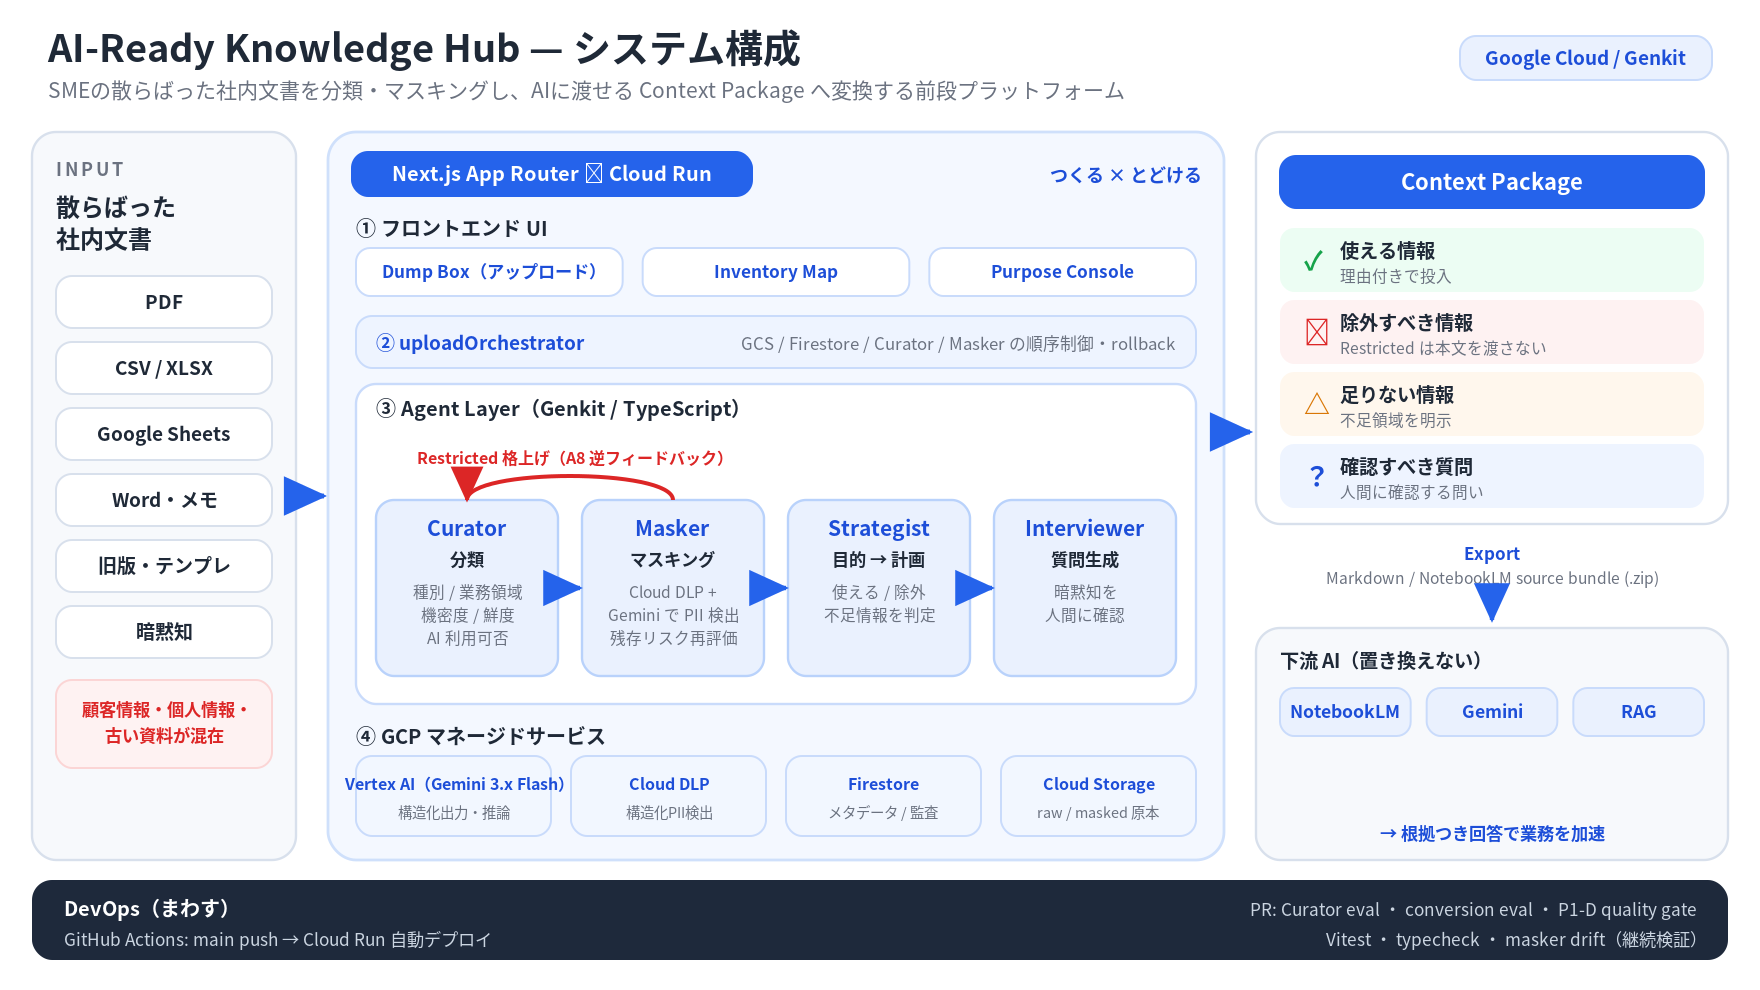
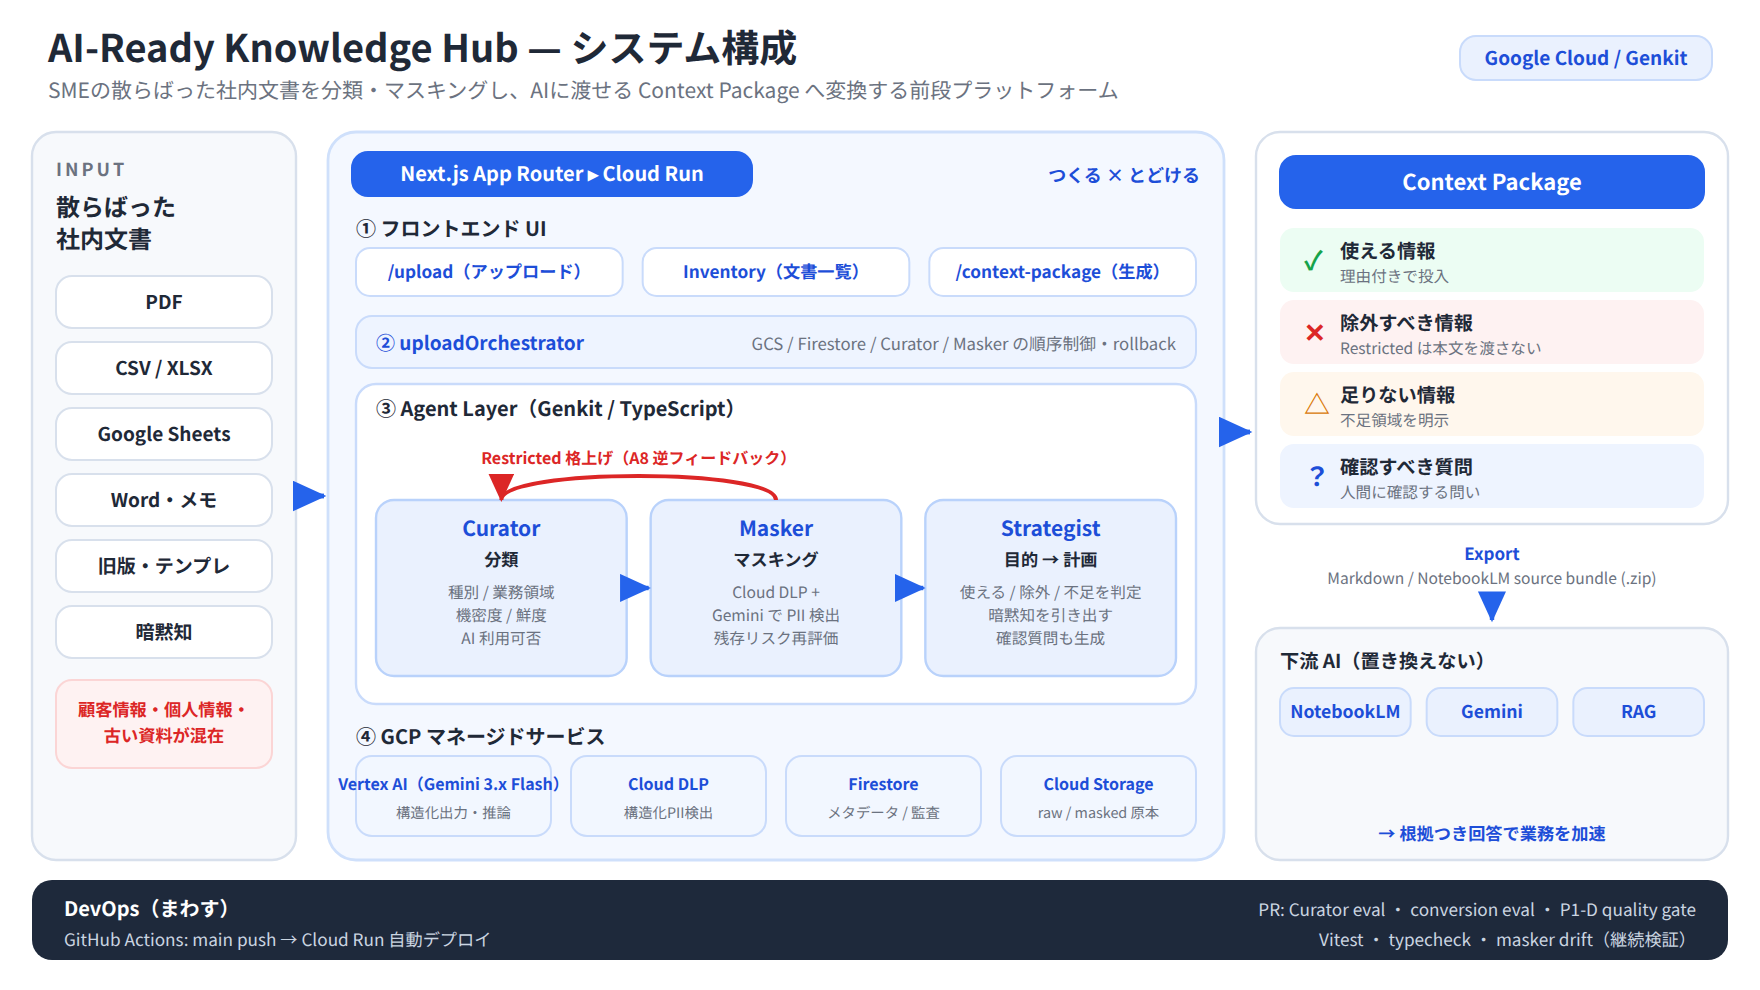
Fix Protopedia system architecture diagram to match implementation
- Remove fictional Interviewer agent: src/agents/ has only curator/masker/
  strategist, and question generation lives inside the Strategist flow
  (docs/decisions.md). Diagram and description now show 3 agents, with
  Strategist covering human-review question generation.
- Replace pre-PR#67 UI names (Dump Box / Inventory Map / Purpose Console)
  with actual UI terms: /upload, Inventory, /context-package.
- Regenerate system-architecture.png (1760x990 @2x) from the updated SVG.

Claude-Session: https://claude.ai/code/session_01FoRMgYQUkLwN67H7Y6qAYU

diff --git a/docs/protopedia/system-architecture-description.md b/docs/protopedia/system-architecture-description.md
@@ -1,18 +1,18 @@
 # システム構成（Protopedia 提出用）
 
-SME に散らばった社内文書（PDF・CSV・Google Sheets・メモ・旧版資料・暗黙知）を、**AI に安全に渡せる Context Package** へ変換する前段プラットフォームです。NotebookLM / Gemini / RAG を置き換えるのではなく、それらに投入する情報を「実務で使える粒度」と「セキュリティ観点」で準備します。全体は **Genkit（TypeScript）の 4 エージェント** を中心に、Next.js を Cloud Run に載せて構成しています。
+SME に散らばった社内文書（PDF・CSV・Google Sheets・メモ・旧版資料・暗黙知）を、**AI に安全に渡せる Context Package** へ変換する前段プラットフォームです。NotebookLM / Gemini / RAG を置き換えるのではなく、それらに投入する情報を「実務で使える粒度」と「セキュリティ観点」で準備します。全体は **Genkit（TypeScript）の 3 エージェント** を中心に、Next.js を Cloud Run に載せて構成しています。
 
 ## 全体の流れ
 
 ユーザーは `/upload` から複数ファイルをまとめて投入します。HTTP 境界（`POST /api/documents`）は multipart の検証だけを行い、副作用の順序は **uploadOrchestrator** にすべて委ねます。orchestrator が「Cloud Storage への原本保存 → Firestore へのメタデータ作成 → Curator → 必要時 Masker」を rollback 付きで直列実行し、結果を UI に返します。文書の準備が整ったら、ユーザーは目的（例:「新人スタッフ向けに月次の給与計算業務を安全に学べる AI を作りたい」）を入力し、Strategist が Context Package を生成します。
 
-## 4 エージェント（Genkit / Vertex AI）
+## 3 エージェント（Genkit / Vertex AI）
 
 **Curator** が文書を分類します（種別・業務領域・機密度・鮮度・AI 利用可否）。機密度から AI 利用方針を自動派生し、`direct`（そのまま AI 参照可）・`blocked`（AI 参照不可）・`requires_masking`（マスキングが必要）へ振り分けます。
 
 **Masker** は `requires_masking` の文書だけを受け取り、**Cloud DLP による構造化 PII 検出**（マイナンバー・口座番号・氏名など）と **Vertex AI（Gemini）による文脈依存 PII 判定**を組み合わせてマスクし、さらにマスク後の残存リスク（特定企業・取引・個人が再識別できないか）を再評価します。
 
-**Strategist** が目的を分解し、Inventory から候補を選び、「使える情報 / 除外すべき情報 / 足りない情報」に整理します。**Interviewer** は不足領域から、暗黙知を引き出すための確認質問を生成します。
+**Strategist** が目的を分解し、Inventory から候補を選び、「使える情報 / 除外すべき情報 / 足りない情報」に整理します。さらに不足領域から、暗黙知を人間から引き出すための「確認すべき質問」も Strategist が生成します。
 
 ### 中核となる逆フィードバック（図中の赤い矢印）
 
